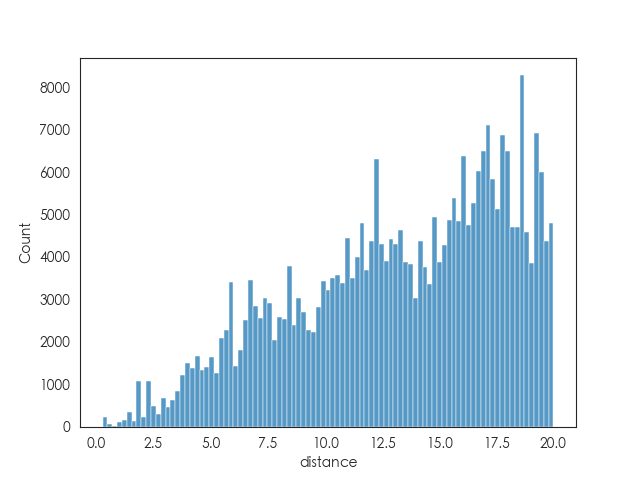
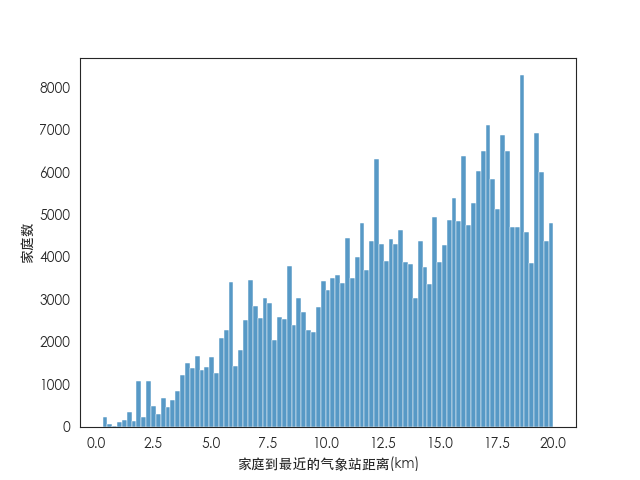
准备答辩

Changed region(s): [[0.375, 0.9375, 0.6562, 1.0], [0.0312, 0.4688, 0.0625, 0.5625]]

diff --git a/presentation.tex b/presentation.tex
@@ -4,16 +4,16 @@
 \usepackage{amsfonts}
 \usepackage{float}
 \usepackage{enumerate}
-\usepackage{svg}
 \usepackage{graphicx}
 \usepackage{booktabs}
 \usepackage{hyperref}
 \usepackage[style = gb7714-2015ay, url=false,gbtitlelink=true]{biblatex}
 \addbibresource{thesis.bib}
-\title[开题报告]{极端天气冲击对风险偏好的影响——以家财险需求为例}
+\title[论文答辩]{极端天气冲击对家财险需求的影响——以极端降水为例}
 \author{董晨阳}
 \date{\today}
-\renewcommand{\bibfont}{\normalfont\small}
+\renewcommand{\bibfont}{\tiny}
+\setbeamertemplate{bibliography item}{}
 \begin{document}
 \AtBeginSection[]
 {
@@ -28,165 +28,80 @@
     \end{frame}
 }
 \maketitle
-% 2、内容：包括选题来源、研究意义、国内外研究状况、主要研究内容、拟采取的研究方法、预期研究结果和论文写作计划等。
-\section{研究背景与意义}
+
+
+% ### 幻灯片 3: 研究背景与意义
+% - 全球气候变化加剧，极端天气事件频发。
+% - 探讨极端天气对家财险需求的影响，对理解气候变化的社会经济影响具有重要意义。
+
+% ### 幻灯片 4: 研究目的
+% - 评估极端降水事件对家财险保额需求的影响。
+% - 丰富气候变化社会经济影响的理解。
+
+% ### 幻灯片 5: 研究方法
+% - 构建双重差分模型。
+% - 利用1995-2015年的家财险数据进行分析。
+
+% ### 幻灯片 6: 数据来源与样本选择
+% - 数据来源：某财产保险公司家财险数据。
+% - 样本选择：距离气象站20公里以内的标的样本。
+
+% ### 幻灯片 7: 模型设定与变量定义
+% - 介绍主要解释变量和控制变量。
+% - 解释变量的经济含义及其预期作用。
+
+% ### 幻灯片 8: 实证结果概览
+% - 近灾区居民家财险需求增加约24%。
+% - 直接受灾区家财险需求可能减少18%。
+
+% ### 幻灯片 9: 稳健性检验
+% - 平行趋势检验。
+% - 安慰剂检验。
+% - 其他稳健性检验。
+
+% ### 幻灯片 10: 异质性分析
+% - 地区异质性。
+% - 时间异质性。
+% - 保险标的价值异质性。
+% - 城市级别异质性。
+
+% ### 幻灯片 11: 进一步分析
+% - 探讨灾区平均保额降低的可能原因。
+
+% ### 幻灯片 12: 研究结论
+% - 极端天气事件显著提高了居民的风险感知。
+% - 不同地区居民对极端天气事件的反应存在差异。
+
+% ### 幻灯片 13: 政策建议
+% - 保险公司视角：创新产品与宣传，提高保障水平。
+% - 政府视角：对保障不足的潜在灾区提供补贴。
+
+% ### 幻灯片 14: 研究创新点
+% - 以家庭财产保险购买为研究对象，讨论极端天气冲击的影响。
+% - 探究极端天气事件冲击下，灾区和非灾区家庭财产保险需求的差异。
+
+% ### 幻灯片 18: 问答环节
+% - 准备回答评审团和听众的问题。
+
+% 请注意，这只是一个大纲，具体的PPT制作还需要根据实际内容进行调整和详细设计。如果您需要更详细的内容或者有其他特殊要求，请告诉我。
+\section{论文研究的目的和意义}
 \begin{frame}
-    \frametitle{研究背景：极端天气频发}
+    \frametitle{<title>}
 
-    在现代社会，气候变化已经成为一个备受瞩目的全球性问题。在灾害面前，家庭往往是首当其冲的受害者。但与企业相比，个人家庭对这些潜在风险的反应可能更为复杂。家庭是否会通过购买家财险来缓解财产损失，以及他们在灾害发生后是否更加倾向于购买保险，这些问题有许多影响因素，具有较强的实证研究价值。
-    \begin{table}[H]
-        \centering
-        \caption{今年来全球极端天气}
-        \tiny
-        \begin{tabular}{lll}
-            \toprule
-            事件       & 时间                    & 死亡人数                            \\
-            \midrule
-            丹尼尔风暴    & 9月4日–12日              & \textgreater{}4,034+（10,100+失踪） \\
-            弗雷迪飓风    & 2月5日–3月14日            & 1,434                           \\
-            摩卡飓风     & 5月9日–15日              & 438（+101失踪）                     \\
-            阿富汗寒潮    & 1月10日–17日             & 166                             \\
-            西北美洲热浪   & 5月–至今                 & \textgreater{}112               \\
-            北印度洪水    & 7月10日–至今              & \textgreater{}100               \\
-            菲律宾洪水    & 2022年12月18日–2023年2月5日 & 97（+25失踪）                       \\
-            圣保罗洪水和滑坡 & 2月18日–23日             & 65（+58失踪）                       \\
-            巴基斯坦洪水   & 6月22日–7月6日            & 54                              \\
-            奥蒂斯飓风    & 10月22日–25日            & 50–350                          \\
-            \bottomrule
-        \end{tabular}
-    \end{table}
+
 \end{frame}
 
-\begin{frame}
-    \frametitle{研究背景：巨灾可能对风险偏好有所影响}
-    巨灾频繁发生给人们造成物质上的创伤同时，也对人们的风险偏好有着潜移默化的影响，例如位于台风路径上的企业更偏好持有现金\citep{杨娜娜2019自然灾害与企业现金持有}。\textbf{极端天气冲击对人们风险偏好是否会产生影响以及产生何种影响是一个值得研究的课题，能帮助我们提前做好风险管理措施，而不是总是亡羊补牢}。
-
-    2023年10月24日，我国政府宣布增发2023年国债1万亿元，集中用于灾后恢复重建和提升国家防灾减灾能力。这一决策表明政府对气候变化带来的灾害风险的高度关注，也突显了防灾减灾工作的紧迫性。
-\end{frame}
-
-\begin{frame}
-    \frametitle{研究主题：极端天气冲击对家财险需求的影响}
-    我国的家财险始于1980年，我国财产保险的早期发展同时也是家庭财产保险演进的历史\citep{黄英君2008论我国产险公司分散性业务营销模式的创新}，塑造了国人对财产险最早的认知。
-
-    然而，极端天气下人们对自身及财产安全的关切是否能够转化为保险需求是一个相对较少被深入研究的领域。本研究的选题来源于对这一领域的关注，力图了解极端天气极端冲击对风险偏好的影响，填补现有研究的空白。
-    \begin{figure}[H]
-        \centering
-        \includegraphics[width=0.6\linewidth,trim=0 0 0 40]{img/家庭财产保险保费.png}
-    \end{figure}
-\end{frame}
-
-\begin{frame}{研究意义}
-    \begin{enumerate}
-        \item 通过深入研究极端天气对家财险需求的影响，我们能够为保险公司提供更为精准的市场预测
-        \item 研究结果还可以为政府和监管机构提供政策制定的依据，为
-        \item 研究家财险需求的变化还能够提供社会科学领域对于人类行为和决策的深刻洞察
-        \item 可持续发展的角度来看，本研究有助于引导人们更加理性和科学地对待气候变化风险
-    \end{enumerate}
-\end{frame}
-
-
-\section{文献综述}
-
-\subsection{极端天气冲击对不同种类保险需求的影响}
-\begin{frame}
-    \frametitle{极端天气冲击对健康险需求的影响}
-    \begin{itemize}
-        \item 空气污染水平对健康险的购买或退保的决策产生的显著影响\citep{2018Something}，每日空气污染水平每增加一个标准差，当天销售的保险合同数量增加了7.2\%。而在考虑购买后的条件下，即在冷静期内，相对于订单日期水平，每日空气污染水平每减少一个标准差，退保概率增加了4.0\%，研究还探讨了多种可能的机制，发现了对投射偏差和显著性的最有力支持。
-        \item 空气污染对中国居民商业健康保险需求的影响大小\citep{赵强2021空气污染对商业健康保险需求的影响}，利用2011年至2016年秦岭淮河地区84个地级市的宏观数据，采用模糊断点回归设计和中国北方集中供暖政策的准自然实验方法，发现空气污染对商业健康险需求存在显著的正向影响，特别是PM2.5污染物的排放浓度每提升1\%，商业健康保险密度提高1.098\%。
-    \end{itemize}
-\end{frame}
-\begin{frame}
-    \frametitle{极端天气冲击对健康险需求的影响机制}
-    \begin{itemize}
-        \item 空气污染提升了个人的风险感知，进而引起健康保险需求增加\citep{宋平凡2022空气污染}。基于2006—2016年中国283个地级以上城市的数据，系统考察了空气污染对健康保险需求的实证影响，采用百度指数作为风险感知的代理变量，并运用中介效应模型验证了空气污染对健康保险需求的影响机制。结果显示，通过百度指数体现的风险感知效应是空气污染引起健康保险需求增加的重要途径，并且工具变量中介效应模型的实证结果进一步支持了这一结论。
-        \item 气候变化增加了居民对气候风险和健康的关注\cite{zhong2022exposure}。增加了居民对气候风险的关注，使其更倾向于购买健康保险以规避潜在的健康风险；异常高温对健康的实质性影响也使居民更加关注自身的医疗保障需求。
-    \end{itemize}
-\end{frame}
-
-\begin{frame}
-    \frametitle{极端天气对寿险需求影响}
-    \begin{itemize}
-        \item 欧盟成员国研究保费金额和温室气体排放的关系\citep{melnychenko2021influence}，结果表明每千吨温室气体排放的增加导致寿险保费金额增加17万欧元，具有显著性。
-        \item 影响机制方面，有观点研究2013年德国洪水对个人的冲击\citep{avdeenko2021impact}，认为这种变化是风险厌恶选择导致高风险地区人寿保险需求的增加，通过幸福感的变化来介导，从而解释了风险偏好的改变。
-    \end{itemize}
-\end{frame}
-
-\begin{frame}
-    \frametitle{极端天气对财产险需求影响}
-    近年来天气灾害致汽车出险的数量明显增加\citep{张翠华2020天气灾害致车险理赔的风险分析}，其研究数据集为河北省2004-2018年天气灾害致车险理赔事故，研究发现主导汽车出险的天气灾害主要包括暴雨、涉水、冰雹和暴风，在不同地区出险数量存在明显的差异。
-\end{frame}
-
-\begin{frame}
-    \frametitle{极端天气对农险需求影响}
-    \citet{胡新艳2021气候变化}通过地级市气候数据和农户微观数据进行匹配，进行了实证分析。研究发现，气候变化在显著促进农户农业保险购买行为方面发挥了关键作用，但在不同生产目的的农户中存在异质性影响。
-
-    具体而言，当农户的经营目标从满足自家消费转向为追求市场利润时，其购买农业保险的需求更为强烈。进一步分析表明，气候变化导致的两类农业风险对农户购买农业保险的中介作用存在差异。土壤退化风险由于具有渐进性，农户能够在农业生产之前通过调整生产要素供给来降低风险损失，因此对农业保险的需求较为低迷。相反，病虫害风险属于突发性风险，农户难以通过事前风险防控来分散风险，从而强化了其对农业保险的需求。
-\end{frame}
-
-
-\subsection{风险偏好的影响因素}
-\begin{frame}
-    \frametitle{风险偏好与商业保险购买之间存在正向关系}
-    \begin{itemize}
-        \item \citet{宋章良2021我国中老年家庭风险偏好对商业保险购买行为的影响研究}认为正向关系的主要原因在于，即高风险偏好的家庭更倾向于购买投资型保险而非保障型保险，与此同时该群体的人均收入较高。
-        \item \citet{孙武军2023商业健康保险的配置能够改变家庭的风险偏好吗}认为购买商业保险也会改变家庭风险偏好，家庭配置商业健康保险能够显著提高家庭的主客观风险偏好。此外，通过对异质性分析的深入研究，发现这种正面影响在低收入家庭中尤为显著，而在高收入家庭中则作用较为微弱。
-    \end{itemize}
-\end{frame}
-
-\begin{frame}
-    \frametitle{自然灾害会对风险偏好产生影响}
-    有研究以中国2003-2005年发生的4次地震为案例，利用国家统计局城镇住户调查数据，通过双重差分法的研究方法，探讨地震对城镇家庭风险偏好的影响及其背后的机制\citep{章元0地震冲击对风险偏好的影响}。地震显著提高了城镇家庭的风险厌恶程度。尤其是距离震中越近的家庭，在地震发生后，购买彩票的概率和支出下降越为显著。这一结果揭示了地震引起的风险预期上升和负向情绪冲击是重要的机制。进一步分析显示，距离震中越近的家庭，其震后非储蓄性保险支出以及用于缓解负向情绪的消费支出上升越多。这意味着地震对家庭风险偏好的影响，不仅体现在经济决策上，还体现在对非储蓄性保险和消费行为的调整上。
-\end{frame}
-\begin{frame}
-    \frametitle{其他风险偏好影响因素方面}
-    \begin{enumerate}
-        \item 收入\citep{石双2018收入与风险偏好}
-        \item 资产总额\citep{卢亚娟殷君瑶2021户主风险态度对家庭金融资产配置的影响研究}
-        \item 年龄\citep{王晶2021年龄结构}
-        \item 健康状况\citep{雷晓燕2010中国家庭的资产组合选择}
-        \item 教育程度\citep{梁立俊2018受教育程度与主客观风险偏好}
-        \item 职业\citep{赵颖2017中国劳动者的风险偏好与职业选择}、性别\citep{徐小华2019女性劳动参与会影响家庭资产配置风险偏好吗}
-    \end{enumerate}
-\end{frame}
-
-\section{未来研究计划}
-
-
-\begin{frame}{主要研究内容与拟采取的研究方法}
-    本文计划研究气候变化对家庭财产保险需求的影响机制，主要研究内容包括：
-
-    \begin{enumerate}
-        \item 气候变化是否影响家庭财产保险需求，如果影响，影响程度如何
-        \item 气候变化对家庭财产保险需求的影响机制，可能的影响因素包括：气候变化通过影响家庭风险偏好影响保险需求、气候变化对家庭财产损失频率的影响、气候变化对家庭财产损失程度的影响等
-        \item 家庭风险偏好对气候变化影响下家庭财产保险需求的调节作用，例如风险偏好越高，家庭财产保险需求的增加是否越显著
-    \end{enumerate}
-\end{frame}
-
-
-\begin{frame}{预期研究结果}
-    本文预期研究结果包括：
-
-    \begin{enumerate}
-        \item 气候变化对家财险需求具有显著性影响，可以看到地震、洪水、火灾等气候异常现象发生后，家庭财产保险需求会显著增加
-        \item 气候变化对家庭财产保险需求的影响机制是否成立，异质性检验结果显示，气候变化通过影响家庭风险偏好影响保险需求、气候变化对家庭财产损失频率的影响、气候变化对家庭财产损失程度的影响等都是影响机制
-        \item 家庭风险偏好对气候变化影响下家庭财产保险需求具有一定的的调节作用
-    \end{enumerate}
-\end{frame}
-\begin{frame}{论文写作计划}
-    \begin{enumerate}
-        \item 一月前完成数据的清洗和描述性统计分析
-        \item 二月前完成模型的建立和实证分析
-        \item 三月前完成论文的初稿
-        \item 四月前完成论文的修改和定稿，同时不断阅读文献寻找新思路
-    \end{enumerate}
-\end{frame}
-
-
-
+\section{完成的工作和方法}
+\section{获得的主要结论或提出的主要观点}
+\section{论文的创新点}
 \appendix
 \nocite{*}
 \begin{frame}[allowframebreaks]
     \frametitle{参考文献}
-    \tiny{\printbibliography}
+    \printbibliography
+\end{frame}
+\begin{frame}
+    \centering
+    \Huge Q\&A
 \end{frame}
 \end{document}

diff --git a/src/desc.py b/src/desc.py
@@ -61,25 +61,32 @@ desc.to_latex("../lib/table/desc.tex", float_format="%.2f")
 
 # %%
 tmp = df[(df["Disaster"] == 1)]["累计降水量"]
-tmp.name = "极端降水量"
+tmp.name = "家庭经历的24h极端降水量(mm)"
+
 fig, ax = plt.subplots(figsize=(6.4, 4.8))
-sns.histplot(tmp[tmp < 600], ax=ax)
+p = sns.histplot(tmp[tmp < 600], ax=ax)
+p.set_ylabel("家庭数")
 fig.savefig("../lib/img/precip.png")
 # %%
 tmp2 = df["保险起期"]
 fig, ax = plt.subplots(figsize=(6.4, 4.8))
-sns.histplot(tmp2, ax=ax)
+p = sns.histplot(tmp2, ax=ax)
+p.set_ylabel("家庭数")
 fig.savefig("../img/insurance.png")
 # %%
 tmp2 = df["distance"]
+tmp2.name = "家庭到最近的气象站距离(km)"
 fig, ax = plt.subplots(figsize=(6.4, 4.8))
-sns.histplot(tmp2, ax=ax)
+p = sns.histplot(tmp2, ax=ax)
+p.set_ylabel("家庭数")
 fig.savefig("../lib/img/olsdistance.png")
 # %%
 tmp2 = df["Coverage"]
+tmp2.name = "保额(元)"
 fig, ax = plt.subplots(figsize=(6.4, 4.8))
 plt.xscale("log")
-sns.histplot(tmp2, ax=ax)
+p = sns.histplot(tmp2, ax=ax)
+p.set_ylabel("家庭数")
 fig.savefig("../lib/img/coverage.png")
 # %%
 

diff --git a/chap/chap3.tex b/chap/chap3.tex
@@ -27,7 +27,7 @@
     \end{minipage}
     \begin{minipage}{0.48\linewidth}
         \includegraphics[width=\linewidth]{lib/img/precip.png}
-        \caption{灾区家庭经历极端降水量分布}\label{fig:precip}
+        \caption{灾区家庭经历极端日降水量分布}\label{fig:precip}
     \end{minipage}
 \end{figure}
 % 截止2012年7月22日凌晨2时，北京全市平均降雨量164毫米，城区平均降雨量212毫米，降雨最大点在房山区河北镇，降雨量519毫米。
